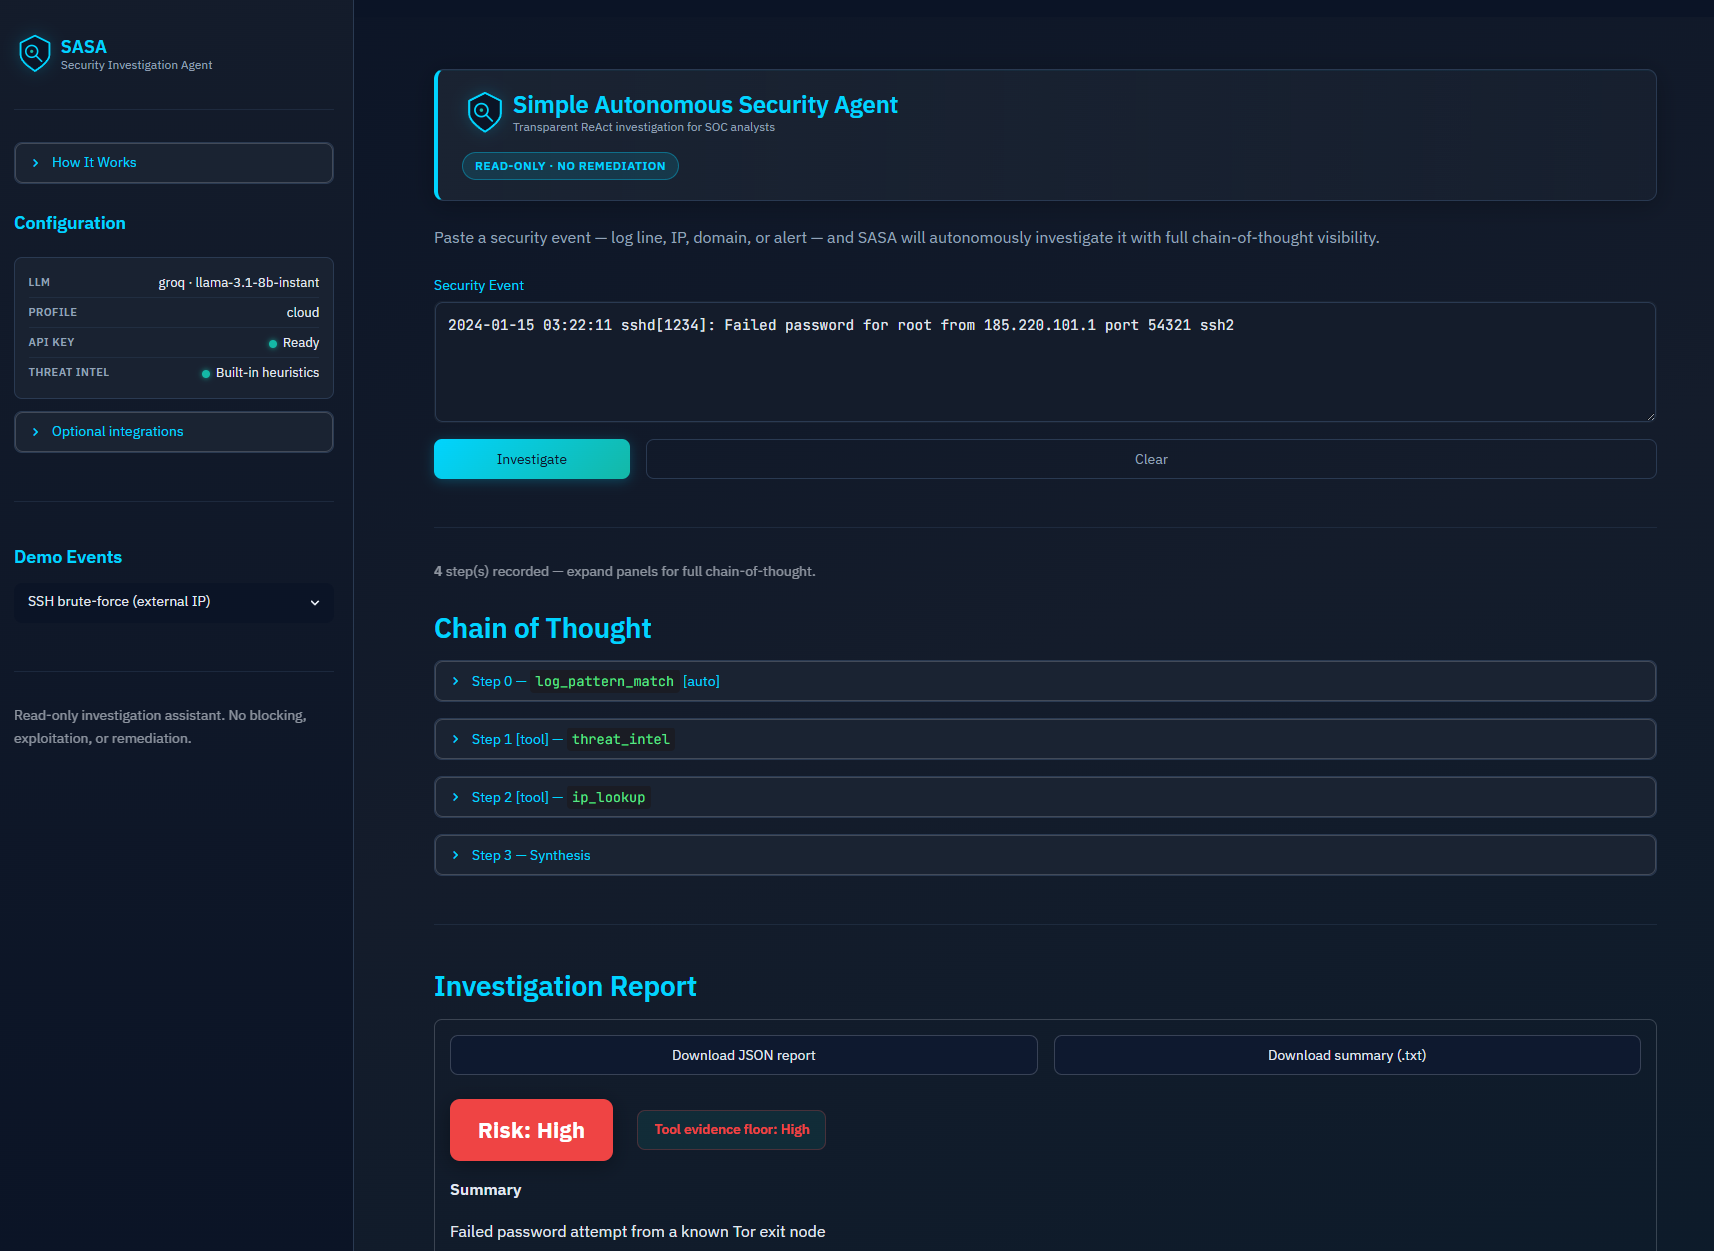
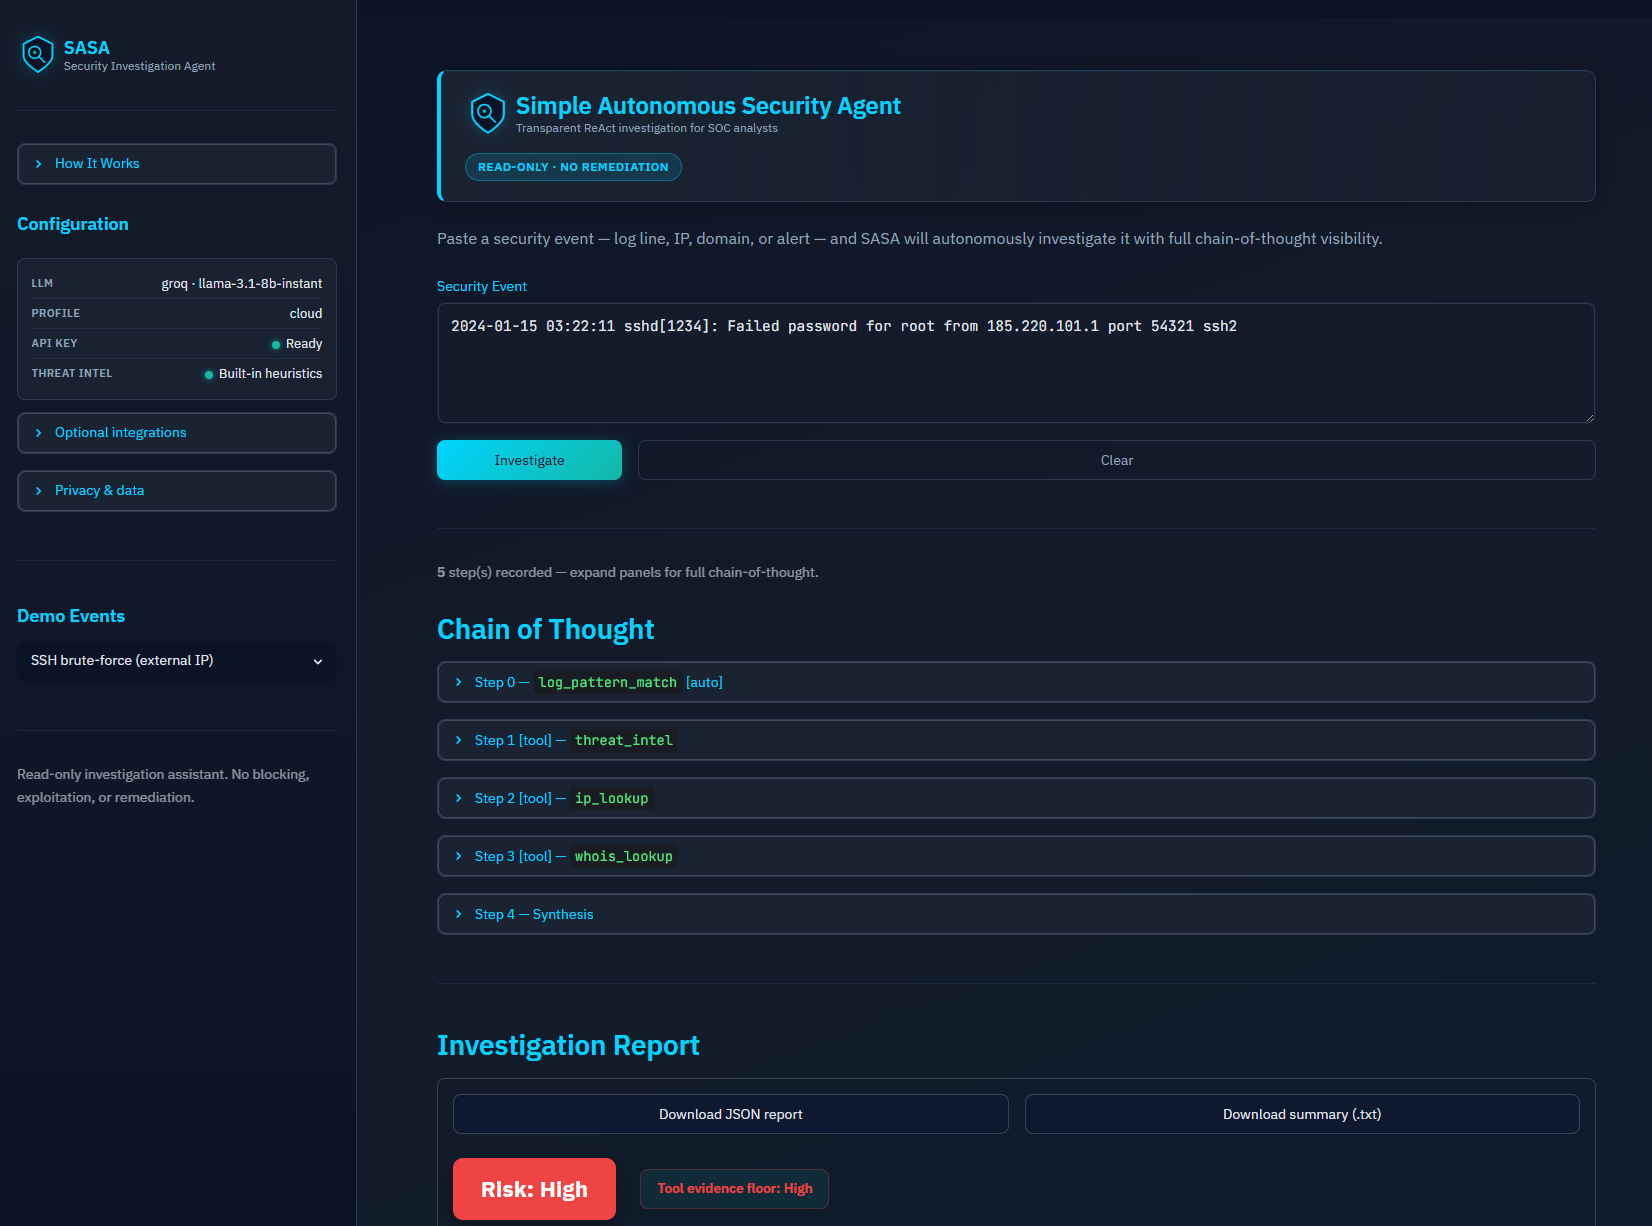
Add privacy and cloud data-handling disclosures (v1.1.1)

diff --git a/app.py b/app.py
@@ -556,6 +556,37 @@ def _render_config_card(settings) -> None:
             )
 
 
+def _render_privacy_notice(settings) -> None:
+    """Sidebar notice: where investigation data is sent (cloud LLM and external tools)."""
+    provider = settings.llm_provider.value
+    is_cloud_llm = provider in ("groq", "together")
+    with st.sidebar.expander("Privacy & data", expanded=False):
+        st.markdown(
+            "Text you submit is processed **on the server** running this app, then sent to:"
+        )
+        st.markdown(
+            f"- **LLM ({provider})** — your event and agent reasoning context"
+        )
+        st.markdown(
+            "- **Read-only tools** — e.g. IP geolocation (ipapi.co), optional AbuseIPDB/WHOIS when the agent calls them"
+        )
+        if is_cloud_llm:
+            st.warning(
+                "Cloud LLM mode: do **not** paste classified data, credentials, or production secrets. "
+                "Use demo events or run locally with Ollama for sensitive material.",
+                icon="⚠️",
+            )
+        else:
+            st.info(
+                "Local LLM (Ollama): prompts stay on your network; external tool APIs may still receive IPs/domains.",
+                icon="ℹ️",
+            )
+        st.caption(
+            "SASA does not store investigations in a database. Session data clears when you close the tab. "
+            "See README → Privacy & data for full details."
+        )
+
+
 def _render_sidebar(settings) -> str | None:
     """Sidebar: brand, how-it-works, config, demo events. Returns selected demo text."""
     st.sidebar.markdown(
@@ -572,6 +603,8 @@ def _render_sidebar(settings) -> str | None:
 
     st.sidebar.markdown("### Configuration")
     _render_config_card(settings)
+
+    _render_privacy_notice(settings)
 
     st.sidebar.divider()
     st.sidebar.markdown("### Demo Events")

diff --git a/tests/test_export_format.py b/tests/test_export_format.py
@@ -47,7 +47,7 @@ class TestExportFormat(unittest.TestCase):
         settings = Settings(llm_provider=LLMProvider.GROQ, llm_model="llama-3.1-8b-instant")
         payload = build_export_payload(state, report, settings=settings)
         self.assertEqual(payload["metadata"]["llm_provider"], "groq")
-        self.assertEqual(payload["metadata"]["app_version"], "1.1.0")
+        self.assertEqual(payload["metadata"]["app_version"], "1.1.1")
 
     def test_summary_includes_event_and_disclaimer(self) -> None:
         state, report = self._sample_state_and_report()

diff --git a/version.py b/version.py
@@ -3,4 +3,4 @@
 Keep in sync with CHANGELOG.md and GitHub Release tags.
 """
 
-__version__ = "1.1.0"
+__version__ = "1.1.1"

diff --git a/README.md b/README.md
@@ -17,6 +17,8 @@ A lightweight, transparent **autonomous security investigation agent** for SOC a
 
 > **Disclaimer:** SASA is an investigation assistant, not an autonomous blocker or remediation system. It performs read-only lookups and never executes destructive actions.
 
+> **Privacy (cloud demo):** When you investigate an event, the text you submit is sent to **third-party services** to run the agent — including the configured **LLM provider** (e.g. [Groq](https://groq.com/legal)) and optional tools such as [ipapi.co](https://ipapi.co/api/#introduction) or [AbuseIPDB](https://www.abuseipdb.com/). SASA does not add a separate database of your queries, but **do not paste classified, credentials, or production secrets** into the public Streamlit demo. For sensitive data, run **locally with Ollama** (see [Quick Start](#quick-start)). Details: [Safety → Privacy & data](#privacy-data).
+
 <details open>
 <summary><strong>Table of Contents</strong></summary>
 
@@ -35,7 +37,7 @@ A lightweight, transparent **autonomous security investigation agent** for SOC a
 | 🏗️ [Architecture & Design Choices](#architecture-design-choices) | System design and investigation pipeline |
 | ↳ [Full architecture doc](docs/architecture.md) | Detailed system design (Mermaid) |
 | ↳ [Development Journey](#development-journey) | Build timeline summary |
-| 🛡️ [Safety Considerations](#safety-considerations) | Ethics and guardrails |
+| 🛡️ [Safety Considerations](#safety-considerations) | Ethics, guardrails, and data privacy |
 | 🔄 [CI/CD](#cicd) | GitHub Actions and deployment |
 | 📈 [Project Status & Build Log](#project-status) | Milestone checklist |
 | 📁 [Repository Layout](#repository-layout) | File tree |
@@ -55,6 +57,7 @@ A lightweight, transparent **autonomous security investigation agent** for SOC a
 
 **Before you open the app:**
 - **Cold start:** This app runs on Streamlit Community Cloud and may go to sleep after inactivity. If you see **“Zzzz — This app has gone to sleep due to inactivity”**, click **“Yes, get this app back up!”** to wake it — anyone can do this; you don’t need to contact the maintainer. Startup may take a minute after you click.
+- **Privacy:** The public demo uses a **cloud LLM (Groq)**. Text you submit leaves the browser for SASA’s server and is forwarded to Groq and any tools the agent calls (e.g. IP geolocation). Use **demo/synthetic events only** — not real production logs with secrets. See [Privacy & data](#privacy-data).
 
 **Screenshot:**
 
@@ -203,6 +206,7 @@ No proprietary datasets are bundled. External APIs and LLM providers are optiona
 
 | Version | Date | Highlights |
 |---------|------|------------|
+| **[v1.1.1](CHANGELOG.md#111---2026-06-23)** | 2026-06-23 | Privacy & data disclosures (README + Streamlit sidebar) |
 | **[v1.1.0](CHANGELOG.md#110---2026-06-23)** | 2026-06-23 | Docker, architecture doc, branding assets, collapsible ToC, CHANGELOG, Docker CI |
 | **[v1.0.0](CHANGELOG.md#100---2026-06-17)** | 2026-06-17 | MVP: ReAct agent, 4 tools, risk floor, Streamlit UI, CI, public Streamlit deploy |
 
@@ -253,6 +257,26 @@ Build timeline and deployment details: [docs/architecture.md#development-journey
 | API key hygiene | Groq/Together keys read from server env only — never in UI, exports, or browser |
 | Analyst disclaimer | UI + README: correlate with internal telemetry before action |
 
+<a id="privacy-data"></a>
+
+### Privacy & data handling
+
+SASA is designed for **investigation assistance**, not as a certified data-processing platform. Understand where your input goes:
+
+| Data you submit | Where it may be sent | Notes |
+|-----------------|----------------------|-------|
+| Event text (logs, IPs, domains) | **LLM provider** (Groq, Together, or local Ollama) | Cloud providers process prompts per their own [terms](https://groq.com/terms/) and privacy policies |
+| ReAct conversation context | Same LLM provider | Prior thoughts/actions in the run are included in API requests |
+| Public IPs / domains (tools) | **ipapi.co**, optional **AbuseIPDB**, **WHOIS** | Only when the agent calls those tools |
+| Session state | Streamlit app memory | Cleared when the session ends; **not** written to a project database by SASA |
+| Exports you download | Your machine only | JSON/TXT files are generated in the browser for you to save |
+
+**Public Streamlit Cloud demo:** Treat it like any shared SaaS triage UI — **no classified data, credentials, PII, or live production secrets**. Prefer sidebar **demo events** or synthetic lines for testing.
+
+**Sensitive environments:** Run on your own machine or Docker with **`LLM_PROVIDER=ollama`** so event text stays on your network (tool calls to external APIs still apply unless you disable/limit tools).
+
+**Maintainer:** This repo does not intentionally log investigation content to disk. Streamlit Cloud and cloud API providers have their own operational logging — review their documentation if compliance matters.
+
 <a id="cicd"></a>
 
 ## 🔄 CI/CD
@@ -292,8 +316,9 @@ Workflow file: [`.github/workflows/tests.yml`](.github/workflows/tests.yml)
 | 7 | GitHub Actions CI | ✅ |
 | 8 | Streamlit Cloud deploy | ✅ |
 | 9 | v1.1 — Docker, architecture doc, branding, CHANGELOG | ✅ |
+| 10 | v1.1.1 — privacy & cloud data disclosures | ✅ |
 
-**Current status:** ✅ v1.1.0 — MVP plus packaging and reproducibility release
+**Current status:** ✅ v1.1.1 — MVP + packaging + privacy disclosures
 
 <a id="repository-layout"></a>
 
@@ -302,7 +327,7 @@ Workflow file: [`.github/workflows/tests.yml`](.github/workflows/tests.yml)
 ```
 ├── app.py                      # Streamlit UI
 ├── agent.py                    # ReAct investigation loop
-├── version.py                  # Application version (1.1.0)
+├── version.py                  # Application version (1.1.1)
 ├── config/settings.py          # LLM provider, limits, secrets loading
 ├── tools/                      # ip_lookup, whois, log_matcher, threat_intel
 ├── utils/

diff --git a/CHANGELOG.md b/CHANGELOG.md
@@ -2,6 +2,15 @@
 
 All notable changes to **Simple Autonomous Security Agent (SASA)** are documented in this file.
 
+## [1.1.1] - 2026-06-23
+
+### Added
+
+- **Privacy & data** disclosures in README (Safety section) and Streamlit sidebar expander
+- Live Demo privacy note for public Groq-based Streamlit Cloud demo
+
+---
+
 ## [1.1.0] - 2026-06-23
 
 ### Added
@@ -38,5 +47,6 @@ First **tagged** release. The repository and Streamlit app were **public since 2
 - **Streamlit Cloud deployment** — [live demo](https://simple-autonomous-security-agent.streamlit.app/)
 - Server-side **API key hygiene** (`utils/secrets.py`) — keys never in UI or exports
 
+[1.1.1]: https://github.com/rvong65/simple-autonomous-security-agent/releases/tag/v1.1.1
 [1.1.0]: https://github.com/rvong65/simple-autonomous-security-agent/releases/tag/v1.1.0
 [1.0.0]: https://github.com/rvong65/simple-autonomous-security-agent/releases/tag/v1.0.0

diff --git a/docs/architecture.md b/docs/architecture.md
@@ -255,16 +255,20 @@ Cold starts: Community Cloud apps sleep after inactivity; users wake the app fro
 | Rate / cost abuse | Per-session investigation limit; max tool calls per run |
 | LLM under-rating threats | Deterministic risk floor from tool observations |
 | Over-trust in AI output | Full chain-of-thought visible; analyst disclaimer in UI and exports |
+| Cloud user data | README + UI privacy notices; recommend demo/synthetic input on public Groq demo; Ollama for sensitive runs |
 
 Architecture-level principle: **evidence gathering is automated; decision authority stays with the analyst**, who must correlate with internal telemetry before action.
+
+**Privacy:** Investigation text is transmitted to configured LLM and tool APIs (Groq, ipapi.co, etc.). SASA does not persist queries to a project database; see README [Privacy & data](../README.md#privacy-data).
 
 ---
 
 ## Version
 
-Document version: v1.1.0 (aligned with [CHANGELOG.md](../CHANGELOG.md#110---2026-06-23))
+Document version: v1.1.1 (aligned with [CHANGELOG.md](../CHANGELOG.md#111---2026-06-23))
 
 | Release | Architecture highlights |
 |---------|------------|
+| **v1.1.1** | Privacy & data disclosures — README Safety section, Streamlit sidebar expander |
 | **v1.1.0** | Engineering maturity — Docker, `docs/architecture.md`, SVG assets, CHANGELOG, Docker CI |
 | **v1.0.0** | SASA MVP, Streamlit Cloud, Groq cloud profile, CI tests |